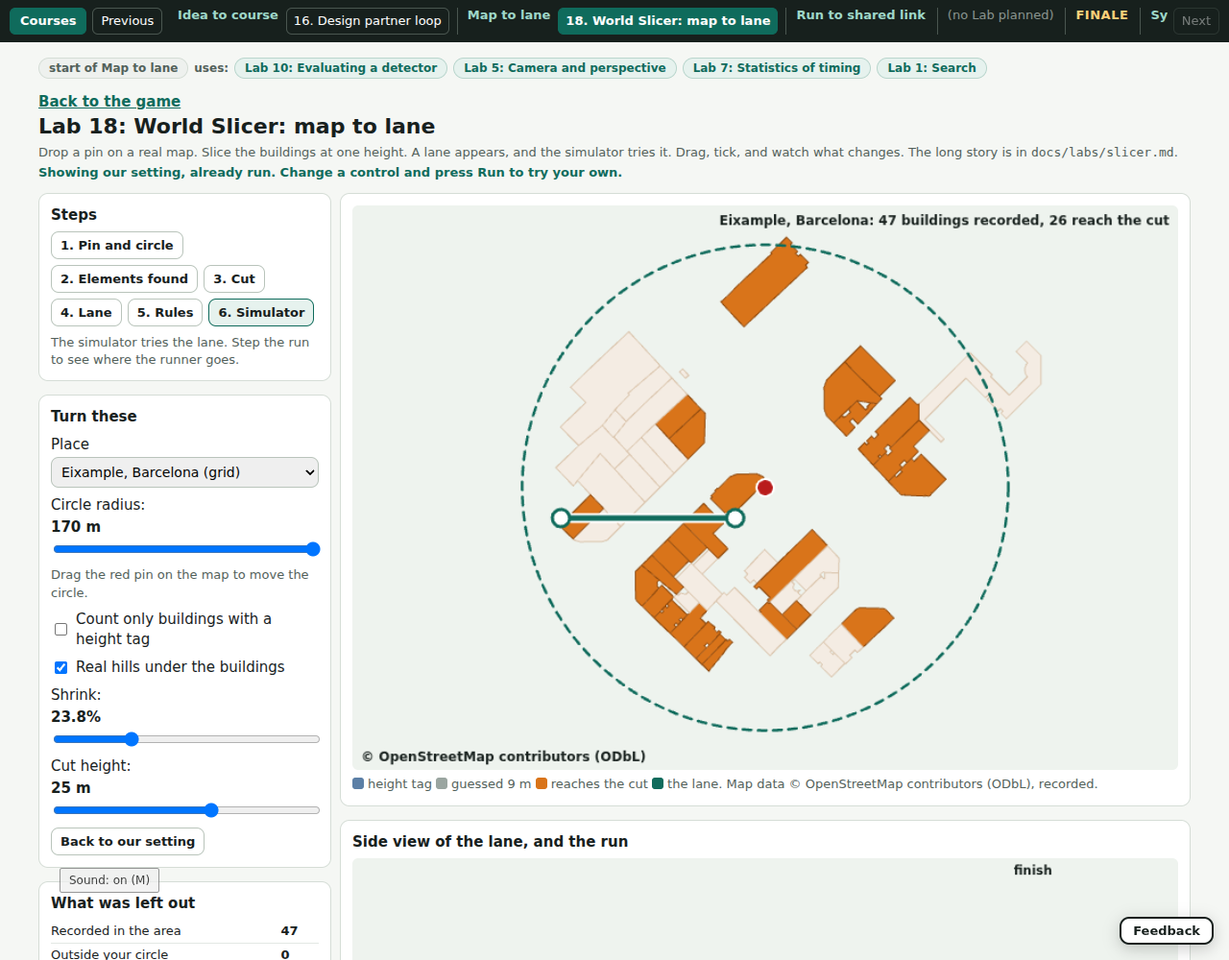
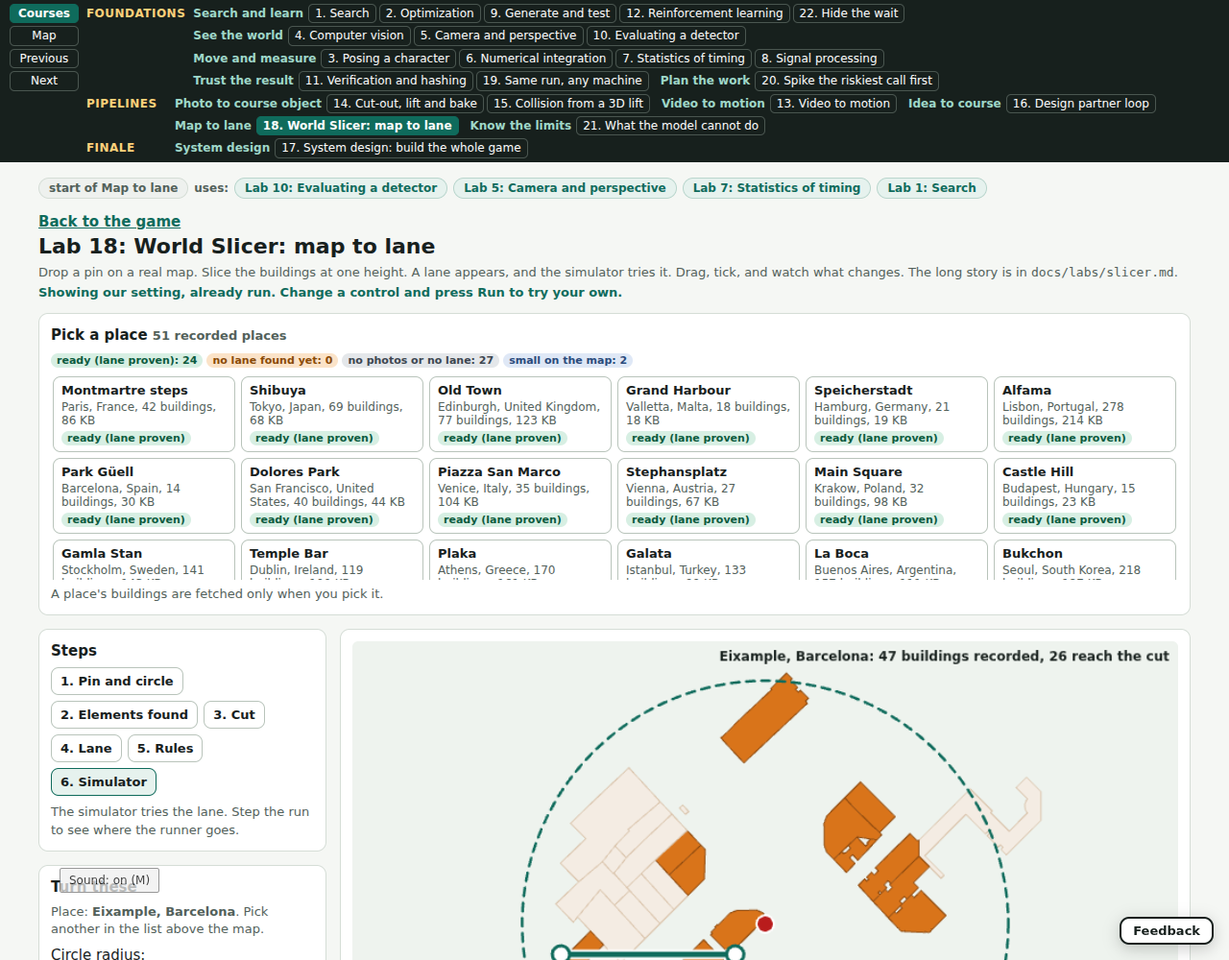
World Slicer Lab: offer every place of the index, each with the editor's completeness badge
- Place picker is a card list with badges (ready, no lane found yet, no photos or no lane, small on the map) and a legend; all counts come from index.json
- Each place's buildings are fetched only when it is picked
- The simulator search runs in a worker with a progress bar; the stored run is shown, labelled, until it answers
- Removed the hard-coded "five of 47" claim from the docs; fixed the stale 47 in the ASSETS row for slicer-defaults.json
- Tests derive counts from the index; browser check covers the picker and lazy loading

Part of CC-133

diff --git a/src/modes/lab-slicer.ts b/src/modes/lab-slicer.ts
@@ -2,10 +2,10 @@ import { mountLabsNav } from "../ui/labs-nav";
 import { labsOn } from "../ui/labs";
 import { labDefaultNote, labPopulated } from "../ui/lab-default";
 import { laneToCourse } from "../slice/slice";
-import type { DefaultsFile } from "../slice/slicer-default";
+import type { DefaultsFile, SlicerDefault } from "../slice/slicer-default";
 import {
-  CHALLENGES, DEFAULTS_URL, GAME_LIMITS, OSM_CREDIT, PLACE_URL, SLUGS, analyse, judge, looksOk, openKnobs, placeOf, reachOf, ruleRows, startKnobs, tryLane,
-  type Analysis, type Challenge, type Knobs, type Limits, type PlaceData, type Tried,
+  CHALLENGES, DEFAULTS_URL, GAME_LIMITS, INDEX_URL, LEVELS, OSM_CREDIT, PLACE_URL, analyse, countLevels, levelsOf, judge, looksOk, openKnobs, placeOf, reachOf, ruleRows, startKnobs,
+  type Analysis, type Challenge, type IndexEntry, type Knobs, type Limits, type PlaceData, type Tried,
 } from "../labs/slicer/slicer-lab-core";
 
 // Lab 18: World Slicer: map to lane. A pin on a recorded OpenStreetMap area becomes a lane the simulator proves. Every picture is the game's own Slicer code run on recorded data
@@ -53,6 +53,14 @@ export function startLabSlicer(host: HTMLElement): { backend: "canvas2d" } {
     #lab-slicer .chal{border:1px solid #d5ddd6;border-radius:8px;padding:10px;display:grid;gap:6px;align-content:start}
     #lab-slicer .chal.on{border-color:${TEAL};background:#f1f8f5}
     #lab-slicer .sw{display:inline-block;width:12px;height:12px;border-radius:3px;vertical-align:-1px;margin-right:4px}
+    #lab-slicer .pl{display:grid;grid-template-columns:repeat(auto-fill,minmax(170px,1fr));gap:6px;max-height:210px;overflow:auto;padding:2px}
+    #lab-slicer .pl button{display:grid;gap:3px;text-align:left;padding:6px 8px}
+    #lab-slicer .pl button[aria-pressed=true]{border-color:${TEAL};background:#e6f2ee}
+    #lab-slicer .pl .nm{font-weight:700}#lab-slicer .pl .ct{font-weight:400;color:#52605a;font-size:12px}
+    #lab-slicer .bdg{display:inline-block;font:700 11px system-ui;padding:1px 6px;border-radius:9px;margin-right:4px;white-space:nowrap}
+    #lab-slicer .bdg.ready{background:#d7efe3;color:#0b5a3e}#lab-slicer .bdg.nolane{background:#fbe3c8;color:#8a4a06}
+    #lab-slicer .bdg.nophotos{background:#e4e7ea;color:#3d4650}#lab-slicer .bdg.small{background:#dfe8f6;color:#2a4a7c}
+    #lab-slicer progress{width:100%;height:10px}
     #lab-slicer [hidden]{display:none !important}
   `;
   root.append(style);
@@ -61,12 +69,16 @@ export function startLabSlicer(host: HTMLElement): { backend: "canvas2d" } {
     <div><a class="back" href="/?welcome=0">Back to the game</a>
     <h1>Lab 18: World Slicer: map to lane</h1>
     <p class="small" style="margin:2px 0 0">Drop a pin on a real map. Slice the buildings at one height. A lane appears, and the simulator tries it. Drag, tick, and watch what changes. The long story is in <code>docs/labs/slicer.md</code>.</p></div>
+    <div class="card"><h2>Pick a place <span class="small" id="sl-place-n"></span></h2>
+      <p class="small" id="sl-legend" style="margin:0 0 6px"></p>
+      <div class="pl" id="sl-places" role="group" aria-label="Recorded places"></div>
+      <p class="small" style="margin:6px 0 0">A place's buildings are fetched only when you pick it.</p></div>
     <div class="grid">
       <div style="display:grid;gap:14px">
         <div class="card"><h2>Steps</h2><div class="steps" id="sl-steps"></div>
           <p class="small" id="sl-does" style="margin:8px 0 0"></p></div>
         <div class="card"><h2>Turn these</h2>
-          <label>Place<select id="sl-place"></select></label>
+          <p class="small" style="margin:0">Place: <b id="sl-place-name"></b>. Pick another in the list above the map.</p>
           <label>Circle radius: <b id="sl-r-v"></b><input id="sl-r" type="range" min="20" max="160" step="5"></label>
           <p class="small" style="margin:0">Drag the red pin on the map to move the circle.</p>
           <label class="tick"><input id="sl-real" type="checkbox"> Count only buildings with a height tag</label>
@@ -82,7 +94,8 @@ export function startLabSlicer(host: HTMLElement): { backend: "canvas2d" } {
         <div class="card"><h2>Side view of the lane, and the run</h2>
           <canvas id="sl-side" width="${SW}" height="${SH}"></canvas>
           <label>Step of the run: <b id="sl-tick-v"></b><input id="sl-tick" type="range" min="0" max="1" step="1"></label>
-          <p id="sl-verdict" style="margin:4px 0 0;font-weight:700"></p></div>
+          <p id="sl-verdict" style="margin:4px 0 0;font-weight:700"></p>
+          <progress id="sl-prog" hidden></progress><p class="small" id="sl-prog-t" style="margin:2px 0 0"></p></div>
       </div>
     </div>
     <div class="grid" style="grid-template-columns:minmax(0,1fr) minmax(0,1fr)">
@@ -186,7 +199,7 @@ export function startLabSlicer(host: HTMLElement): { backend: "canvas2d" } {
     $("sl-lg-v").textContent = `${f1(limits.gap)} m`; $("sl-lc-v").textContent = `${f1(limits.climb)} m`; $("sl-lf-v").textContent = `${f1(limits.fall)} m`;
     $("sl-look").innerHTML = `Quick look: <b class="${looksOk(a.facts, limits) ? "good" : "bad"}">${looksOk(a.facts, limits) ? "looks crossable" : "does not look crossable"}</b>. ${a.why.lines.length && !a.proved ? a.why.lines.join(" ") : ""}`;
     $("sl-does").textContent = STEPS[step - 1].does;
-        $("sl-verdict").innerHTML = busy ? "Asking the simulator..." : a.proved
+        $("sl-verdict").innerHTML = busy ? (recorded ? recordedLine() : "Asking the simulator...") : a.proved
       ? `<span class="good">Simulator: clears.</span> ${f1(a.lengthM)} m lane${tried?.clearS ? `, an ideal run takes ${tried.clearS} s` : ""}. The quick look says ${a.quick ? "yes" : "no"}: the simulator has the last word.`
       : `<span class="bad">Simulator: no run clears this lane.</span> ${a.lengthM < 8 ? "The lane is too short." : a.why.lines[0] ?? ""}`;
     const tt = $<HTMLInputElement>("sl-tick"); tt.max = String(Math.max(1, (tried?.xs.length ?? 1) - 1)); tt.value = String(Math.min(tick, Number(tt.max))); $("sl-tick-v").textContent = tried ? `${tt.value} of ${tt.max}` : "no run";
@@ -195,20 +208,35 @@ export function startLabSlicer(host: HTMLElement): { backend: "canvas2d" } {
   const redraw = () => { drawText(); drawMap(); drawSide(); };
 
   // ---- compute: a quick pass while dragging, the simulator after a pause ----
-  let busy = false;
+  let busy = false, recorded = false, worker: Worker | null = null, askId = 0, t0 = 0, progTimer = 0, index: IndexEntry[] = [];
+  const dOf = (): SlicerDefault | undefined => defaults?.places.find((x) => x.slug === place.slug);
+  /** True while the knobs are still the stored, proved setting: the recorded run is then shown at once, labelled, while the live search runs. */
+  const sameAsStored = (): boolean => { const d = dOf(); return !!d && JSON.stringify(openKnobs(place, d)) === JSON.stringify(k); };
+  const recordedLine = (): string => { const d = dOf()!; return `<span class="good">Recorded run: ${d.clear ? "clears" : "does not clear"}.</span> ${f1(d.lengthM)} m lane${d.clearS ? `, an ideal run takes ${d.clearS} s` : ""}. Proved ahead of time; the live search is running now.`; };
+  function stopProgress() { window.clearInterval(progTimer); $("sl-prog").hidden = true; $("sl-prog-t").textContent = ""; }
   function recompute(now: boolean) {
     window.clearTimeout(timer);
     token++;
-    a = analyse(place, k, { prove: false }); tried = null; tick = 0; busy = true;
+    a = analyse(place, k, { prove: false }); tried = null; tick = 0; busy = true; recorded = sameAsStored();
     redraw();
-    timer = window.setTimeout(() => {
-      timer = window.setTimeout(() => {
-        a = analyse(place, k);
-        tried = a.proved || a.lengthM >= 8 ? tryLane(a) : null;
-        if (tried) tick = tried.xs.length - 1;
-        busy = false; redraw(); labPopulated("lab-slicer");
-      }, 30);
-    }, now ? 0 : 450);
+    timer = window.setTimeout(ask, now ? 0 : 450);
+  }
+  /** The simulator's search runs in a worker, so a big place never freezes the page; a bar shows how long it has run. */
+  function ask() {
+    if (worker) { worker.terminate(); worker = null; } // a newer setting replaces a search still running
+    const id = ++askId; t0 = performance.now();
+    const w = (worker = new Worker(new URL("../labs/slicer/worker.ts", import.meta.url), { type: "module" }));
+    w.onmessage = (e: MessageEvent) => {
+      if (e.data.id !== askId) return;
+      stopProgress(); a = e.data.a as Analysis; tried = e.data.tried as Tried | null;
+      if (tried) tick = tried.xs.length - 1;
+      busy = false; recorded = false; redraw(); labPopulated("lab-slicer");
+    };
+    w.onerror = (e) => { stopProgress(); busy = false; $("sl-verdict").innerHTML = `<span class="bad">The search stopped: ${e.message}</span>`; };
+    $("sl-prog").hidden = false;
+    window.clearInterval(progTimer);
+    progTimer = window.setInterval(() => { $("sl-prog-t").textContent = `The simulator is searching: ${((performance.now() - t0) / 1000).toFixed(1)} s. Big places take longer.`; }, 200);
+    w.postMessage({ id, place, knobs: k });
   }
 
   // ---- challenges ----
@@ -228,28 +256,38 @@ export function startLabSlicer(host: HTMLElement): { backend: "canvas2d" } {
 
   // ---- events ----
   async function load(slug: string) {
+    const entry = index.find((p) => p.slug === slug);
+    $("sl-place-name").textContent = `${entry?.name ?? slug} (loading its buildings...)`;
     if (!places.has(slug)) places.set(slug, placeOf(await (await fetch(PLACE_URL(slug))).json()));
     place = places.get(slug)!;
-    const d = defaults!.places.find((x) => x.slug === slug)!;
+    const d = defaults!.places.find((x) => x.slug === slug);
+    if (!d) { $("sl-place-name").textContent = `${place.name} (no stored lane to start from)`; return; }
     k = chal && chal.slug === slug ? startKnobs(chal, place, d) : openKnobs(place, d);
     span = Math.max(80, reachOf(place) + 20);
     ($("sl-r") as HTMLInputElement).max = String(reachOf(place));
-    ($("sl-place") as HTMLSelectElement).value = slug;
+    $("sl-place-name").textContent = place.name;
+    wrap.querySelectorAll<HTMLButtonElement>("#sl-places button").forEach((b) => b.setAttribute("aria-pressed", String(b.dataset.slug === slug)));
     recompute(true);
   }
   const reset = () => { chal = null; paintChals(); void load(place.slug); };
   (async () => {
     defaults = await (await fetch(DEFAULTS_URL)).json();
-    for (const s of SLUGS) { const d = defaults!.places.find((x) => x.slug === s); void d; }
-    const names: Record<string, string> = { "alfama-lisbon": "Alfama, Lisbon (hills)", "montmartre-paris": "Montmartre, Paris", "eixample-barcelona": "Eixample, Barcelona (grid)", "zocalo-mexico-city": "Zocalo, Mexico City (few buildings)", "lakeside-garden-skatepark": "Lakeside skatepark (one building)" };
-    $("sl-place").innerHTML = SLUGS.map((s) => `<option value="${s}">${names[s]}</option>`).join("");
+    index = (await (await fetch(INDEX_URL)).json()) as IndexEntry[];
+    const c = countLevels(index), main = (p: IndexEntry) => LEVELS.findIndex((l) => l.id === levelsOf(p)[0]);
+    $("sl-place-n").textContent = `${index.length} recorded places`;
+    $("sl-legend").innerHTML = LEVELS.map((l) => `<span class="bdg ${l.id}" title="${l.tip}">${l.label}: ${c[l.id]}</span>`).join("");
+    $("sl-places").innerHTML = [...index].sort((x, y) => main(x) - main(y)).map((p) => {
+      const cut = p.name.lastIndexOf(","), nm = cut > 0 ? p.name.slice(0, cut) : p.name, city = cut > 0 ? p.name.slice(cut + 1).trim() : p.country ?? "";
+      const bd = levelsOf(p).map((l) => { const L = LEVELS.find((x) => x.id === l)!; return `<span class="bdg ${l}" title="${L.tip}">${L.label}</span>`; }).join("");
+      return `<button type="button" data-slug="${p.slug}" aria-pressed="false"><span class="nm">${nm}</span><span class="ct">${[city, p.country && p.country !== city ? p.country : ""].filter(Boolean).join(", ")}${p.buildings ? `, ${p.buildings} buildings` : ""}${p.bytes ? `, ${Math.round(p.bytes / 1000)} KB` : ""}</span><span>${bd}</span></button>`;
+    }).join("");
     $("sl-steps").innerHTML = STEPS.map((s) => `<button data-step="${s.id}" aria-pressed="false">${s.id}. ${s.name}</button>`).join("");
     paintChals();
-    await load("eixample-barcelona");
+    await load(index.some((p) => p.slug === "eixample-barcelona") ? "eixample-barcelona" : index[0].slug);
   })().catch((e) => { wrap.insertAdjacentHTML("afterbegin", `<p class="bad">Could not load the recorded places: ${String(e)}</p>`); });
 
   $("sl-steps").addEventListener("click", (e) => { const b = (e.target as HTMLElement).closest("button"); if (b) { step = Number(b.dataset.step); redraw(); } });
-  $("sl-place").addEventListener("change", () => { chal = null; paintChals(); void load(($("sl-place") as HTMLSelectElement).value); });
+  $("sl-places").addEventListener("click", (e) => { const b = (e.target as HTMLElement).closest("button"); if (b?.dataset.slug) { chal = null; paintChals(); void load(b.dataset.slug); } });
   $("sl-r").addEventListener("input", () => { k = { ...k, radiusM: Number(($("sl-r") as HTMLInputElement).value) }; recompute(false); });
   $("sl-k").addEventListener("input", () => { k = { ...k, shrink: Number(($("sl-k") as HTMLInputElement).value) }; recompute(false); });
   $("sl-cut").addEventListener("input", () => { k = { ...k, cutM: Number(($("sl-cut") as HTMLInputElement).value) }; recompute(false); });

diff --git a/tests/lab-slicer.test.ts b/tests/lab-slicer.test.ts
@@ -3,12 +3,14 @@ import { describe, expect, it } from "vitest";
 import { setRoofStart } from "../src/slice/slice";
 import { laneFacts, looksCrossable } from "../src/slice/why";
 import { replayDefault, type DefaultsFile } from "../src/slice/slicer-default";
-import { CHALLENGES, GAME_LIMITS, JUMP_GAP_M, MIN_LANE_M, SLUGS, analyse, inputOf, judge, looksOk, openKnobs, placeOf, reachOf, ruleRows, startKnobs, tryLane, type Challenge, type Knobs } from "../src/labs/slicer/slicer-lab-core";
+import { CHALLENGES, GAME_LIMITS, JUMP_GAP_M, MIN_LANE_M, LEVELS, analyse, countLevels, isReady, levelsOf, type IndexEntry, inputOf, judge, looksOk, openKnobs, placeOf, reachOf, ruleRows, startKnobs, tryLane, type Challenge, type Knobs } from "../src/labs/slicer/slicer-lab-core";
 
 // Lab 18 (map to lane): the Lab's claims, pinned to the game's own Slicer code and the recorded OpenStreetMap places. No network, no photos.
 const defaults = JSON.parse(readFileSync("public/assets/places/slicer-defaults.json", "utf8")) as DefaultsFile;
 const raw = (slug: string) => JSON.parse(readFileSync(`public/assets/places/${slug}.json`, "utf8"));
 const place = (slug: string) => placeOf(raw(slug));
+const index = JSON.parse(readFileSync("public/assets/places/index.json", "utf8")) as IndexEntry[];
+const SLUGS = index.map((p) => p.slug);
 const dflt = (slug: string) => defaults.places.find((d) => d.slug === slug)!;
 const chal = (id: string): Challenge => CHALLENGES.find((c) => c.id === id)!;
 const knobs = (slug: string, o: Partial<Knobs> = {}): Knobs => ({ ...openKnobs(place(slug), dflt(slug)), ...o });
@@ -16,13 +18,39 @@ setRoofStart(true);
 
 describe("Lab 18: the recorded places", () => {
   it("are in the picker's list, are recorded OpenStreetMap buildings, and have a stored proved default", () => {
-    expect(SLUGS).toHaveLength(5);
+    expect(SLUGS.length).toBeGreaterThan(0);
+    expect(new Set(SLUGS).size).toBe(SLUGS.length);
     for (const s of SLUGS) {
       const r = raw(s);
       expect(r.answer.elements.length).toBeGreaterThan(0);
-      expect(r.answer.elements.every((e: { tags?: Record<string, string> }) => !!e.tags?.building)).toBe(true);
-      expect(dflt(s).clear).toBe(true);
+      expect(r.answer.elements.some((e: { tags?: Record<string, string> }) => !!e.tags?.building)).toBe(true);
+      expect(dflt(s), s).toBeTruthy();
     }
+  });
+  it("every place of the index has a badge, and the counts are computed from the index", () => {
+    const c = countLevels(index);
+    expect(c.ready + c.nolane + c.nophotos).toBe(index.length); // one main badge each
+    expect(c.ready).toBe(index.filter((p) => p.listed !== false && (p.kind !== "parkour" || p.path === true)).length);
+    expect(c.small).toBe(index.filter((p) => p.kind === "parkour" && p.visible === false).length);
+    for (const p of index) expect(levelsOf(p).includes("ready")).toBe(isReady(p));
+    expect(LEVELS.map((l) => l.id)).toEqual(["ready", "nolane", "nophotos", "small"]);
+  });
+  it("every badge level that the index has is on at least one card, and the legend names all four", () => {
+    const c = countLevels(index);
+    for (const l of LEVELS) expect(c[l.id] > 0 || ["nolane"].includes(l.id), l.id).toBe(true); // 'no lane found yet' is empty while every park has its lane; the legend still shows it with 0
+    const src = readFileSync("src/modes/lab-slicer.ts", "utf8");
+    expect(src).toContain("LEVELS.map");
+    expect(src).toContain("countLevels(");
+  });
+  it("every place opens: its buildings are found and its stored lane reads", () => {
+    for (const s of SLUGS) { const pl = place(s), a = analyse(pl, openKnobs(pl, dflt(s)), { prove: false }); expect(a.counts.found, s).toBeGreaterThan(0); }
+  }, 120000);
+  it("loads each place's file only when it is picked, never all at once", () => {
+    const src = readFileSync("src/modes/lab-slicer.ts", "utf8");
+    expect(src.match(/PLACE_URL\(/g)).toHaveLength(1);
+    expect(src).toMatch(/async function load\(slug: string\)[\s\S]{0,500}PLACE_URL\(slug\)/);
+    expect(src).not.toMatch(/for \([^)]*\) .*PLACE_URL/);
+    expect(src).toContain("new Worker(");
   });
   it("the Alfama facts quoted on the page: 278 buildings drawn, 64 with a height tag", () => {
     const a = analyse(place("alfama-lisbon"), knobs("alfama-lisbon"), { prove: false });
@@ -130,7 +158,7 @@ describe("Lab 18: the four design challenges each start failing and each has a w
     expect(judge(c, analyse(place(c.slug), { ...start(c), realOnly: false })).pass).toBe(true);
   });
   it("every challenge has a reveal and a place that is in the list", () => {
-    for (const c of CHALLENGES) { expect(c.reveal.length).toBeGreaterThan(40); expect(SLUGS).toContain(c.slug); }
+    for (const c of CHALLENGES) { expect(c.reveal.length).toBeGreaterThan(40); expect(SLUGS, c.slug).toContain(c.slug); }
   });
 });
 

diff --git a/src/labs/slicer/slicer-lab-core.ts b/src/labs/slicer/slicer-lab-core.ts
@@ -15,7 +15,26 @@ export { JUMP_GAP_M, MIN_GAP_M, CLIMBABLE, LANE_DROP };
 export const MIN_LANE_M = 8; // a lane shorter than this is too short to run along (src/slice/why.ts)
 export const PLACE_URL = (slug: string): string => `/assets/places/${slug}.json`;
 export const DEFAULTS_URL = '/assets/places/slicer-defaults.json';
-export const SLUGS = ['alfama-lisbon', 'montmartre-paris', 'eixample-barcelona', 'zocalo-mexico-city', 'lakeside-garden-skatepark'] as const;
+export const INDEX_URL = '/assets/places/index.json';
+/** One line of public/assets/places/index.json (only the parts the Lab reads). Every place the Lab offers comes from this list. */
+export interface IndexEntry { slug: string; name: string; country?: string; kind?: string; listed?: boolean; path?: boolean; visible?: boolean; hill_m?: number; buildings?: number; bytes?: number }
+export type Level = 'ready' | 'nolane' | 'nophotos' | 'small';
+/** The same completeness words as the world editor's ready-places gallery (src/modes/map-place.ts), in the order they are shown. */
+export const LEVELS: readonly { id: Level; label: string; tip: string }[] = [
+  { id: 'ready', label: 'ready (lane proven)', tip: 'Listed in the editor and has a lane the simulator cleared.' },
+  { id: 'nolane', label: 'no lane found yet', tip: 'A park whose search has not found a lane yet.' },
+  { id: 'nophotos', label: 'no photos or no lane', tip: 'Not listed in the editor yet (it still has a proved lane stored, but no photos).' },
+  { id: 'small', label: 'small on the map', tip: 'The mapped shape is under 1500 square metres, so it is a small patch at the editor zoom.' },
+];
+/** The same test the editor uses for its green "ready" badge. */
+export const isReady = (p: IndexEntry): boolean => p.listed !== false && (p.kind !== 'parkour' || p.path === true);
+/** The badges of one place: one of ready / no lane found yet / no photos or no lane, and "small on the map" on top when it applies. */
+export const levelsOf = (p: IndexEntry): Level[] => [isReady(p) ? 'ready' : p.kind === 'parkour' ? 'nolane' : 'nophotos', ...(p.kind === 'parkour' && p.visible === false ? ['small' as const] : [])];
+export const countLevels = (index: readonly IndexEntry[]): Record<Level, number> => {
+  const c: Record<Level, number> = { ready: 0, nolane: 0, nophotos: 0, small: 0 };
+  for (const p of index) for (const l of levelsOf(p)) c[l]++;
+  return c;
+};
 export const OSM_CREDIT = '© OpenStreetMap contributors (ODbL)';
 
 export interface PlaceData { slug: string; name: string; lat: number; lon: number; radius: number; blurb: string; answer: OverpassAnswer; ground: Ground | null }
@@ -120,7 +139,7 @@ export const CHALLENGES: readonly Challenge[] = [
     task: 'Only one building is inside this circle, so the lane has nothing to stand on. Widen the radius until a lane clears.',
     reveal: 'A lane needs buildings under the whole line. We read a circle that holds every building recorded around the pin. A wider circle costs more to search, so the Slicer proves the lane ahead of time (docs/lessons.md, CC-90).' },
   { id: 'guessed', title: 'Only the buildings we are sure of', slug: 'alfama-lisbon', kind: 'clear', start: { realOnly: true },
-    task: 'Only 64 of 278 buildings here carry a height tag. With only those counted, there is no lane. Find a setting that clears.',
+    task: 'Many buildings here have no height tag. With only the tagged ones counted, there is no lane. Find a setting that clears.',
     reveal: 'We count every building and guess 9 m when the tag is missing. A guess is imperfect, but a place with only the sure ones has no lane. The lane is a game lane, not a survey.' },
 ];
 export interface Verdict { pass: boolean; text: string }

diff --git a/src/labs/slicer/worker.ts b/src/labs/slicer/worker.ts
@@ -1,0 +1,9 @@
+import { analyse, tryLane, type Knobs, type PlaceData } from "./slicer-lab-core";
+
+// Runs the simulator's search for one lane off the page's thread (a big place can take about ten seconds), then plays the run back for the picture.
+const ctx = self as unknown as { onmessage: ((e: { data: { id: number; place: PlaceData; knobs: Knobs } }) => void) | null; postMessage(m: unknown): void };
+ctx.onmessage = (e) => {
+  const t0 = Date.now(), a = analyse(e.data.place, e.data.knobs);
+  const tried = a.proved || a.lengthM >= 8 ? tryLane(a) : null;
+  ctx.postMessage({ id: e.data.id, a, tried, ms: Date.now() - t0 });
+};

diff --git a/docs/ASSETS.md b/docs/ASSETS.md
@@ -504,7 +504,7 @@
 | File | What | Made from | Licence | Made with |
 |---|---|---|---|---|
 | `public/assets/photos-live/<place>.json` (19 listed places plus eixample-barcelona: shibuya-tokyo, montmartre-paris, piazza-san-marco-venice, valletta-harbour-malta, edinburgh-old-town, dolores-park-san-francisco, caminito-buenos-aires, bukchon-seoul, parc-guell-barcelona, alfama-lisbon, stephansplatz-vienna, galata-istanbul, plaka-athens, bryggen-bergen, gamla-stan-stockholm, speicherstadt-hamburg, temple-bar-dublin, main-square-krakow, castle-hill-budapest) | the allow-list of street photos with no close-up or large person (small far figures pass), one list per place: photo id, creator, position and camera direction only (no picture bytes, no picture addresses) | Mapillary images near the place's lane, found through the Graph API v4 on 2026-10-29 and 2026-11-01, kept unless the person detector found a person taller than 0.2 of the picture height; Mapillary's own blur is the base standard (owner, 2026-11-01); box fetched in 50 m tiles (`scripts/photos_pool.py`) | the pictures stay on Mapillary's servers and are shown by address with the creator's name, "Mapillary" and the licence CC BY-SA 4.0 on screen; the list itself is data we made | `scripts/photos_people.py` (torchvision Faster R-CNN ResNet-50 FPN, COCO weights: code BSD-3-Clause, labels CC BY 4.0) |
-| `public/assets/places/slicer-defaults.json` | for each of the 47 ready places, the shrink, cut height, line, lane length, clear time and check version of the line the World Slicer opens on (8 KB) | `scripts/slicer-defaults.ts` replays the real simulator on the line and height; 46 clear, Montmartre has no clean line and stores its closest try | ours | `npx tsx scripts/slicer-defaults.ts` (CC-90); `tests/slicer-default.test.ts` replays a sample |
+| `public/assets/places/slicer-defaults.json` | for each place in `index.json` (one entry each, the count is the index's), the shrink, cut height, line, lane length, clear time and check version of the line the World Slicer opens on (8 KB) | `scripts/slicer-defaults.ts` replays the real simulator on the line and height; each entry says whether its line clears (`clear`) | ours | `npx tsx scripts/slicer-defaults.ts` (CC-90); `tests/slicer-default.test.ts` replays a sample |
 | `public/assets/photos-live/index.json` | the places that have street photos, with a count (under 1 KB) | made from the allow-lists in the same folder | ours | one-line node script (CC-90); `tests/street-photos.test.ts` keeps it true |
 | `data/eval/cc-90-photos/live/<place>-kept-sheet.jpg` | up to eight kept photos at 256 px, to check by eye that no close-up person got through (evidence only; not used by the game) | the same Mapillary images | CC BY-SA 4.0 (Mapillary), credit to the creators; faces and plates blurred by Mapillary | `scripts/photos_people.py` |
 | `data/eval/cc-120-safety-real/safe-controls-sheet.jpg` | contact sheet of 10 plainly safe control pictures at 170 px (evidence for CC-120; not used by the game) | our own park photos and app screens from `public/assets/`, 2026-10-31 | ours | `scripts/cc120-safety-synthetic.py` |

diff --git a/docs/labs/slicer.md b/docs/labs/slicer.md
@@ -14,12 +14,15 @@
 - Open it at `?mode=lab-slicer&labs=1`.
 
 ## What runs
-- The game's own Slicer code, on recorded OpenStreetMap data of five ready places (`public/assets/places/*.json`):
+- The game's own Slicer code, on recorded OpenStreetMap data of every place in `public/assets/places/index.json` (`public/assets/places/<place>.json`, fetched only when a place is picked):
   - `stateAt`, `customOf` and `replayDefault` from `src/slice/slicer-default.ts` (the buildings, the roofs, the player's line).
   - `customLane` and `worldOf` from `src/slice/slicer-core.ts` (the lane read from the picked buildings, and the simulator's verdict).
   - `laneProfile` from `src/slice/world.ts`, `laneFacts`, `looksCrossable` and `whyNot` from `src/slice/why.ts`.
   - `laneToCourse` from `src/slice/slice.ts`, then `searchIdealRun` and `playPlan` from `src/sim/ideal.ts` for the run that is drawn.
 - Lab code only: `src/labs/slicer/slicer-lab-core.ts` (which buildings the circle and the tag switch leave out, the what-if limits, the challenges).
+- The place picker is a list of cards, each with the editor's completeness badge: ready (lane proven), no lane found yet, no photos or no lane, small on the map.
+  - A legend counts the places of each level, computed from the index.
+  - The test for the green badge is the editor's own (`src/modes/map-place.ts`).
 - Everything runs in the page.
   - Nothing is fetched from the internet, no street photo is shown or stored, and no paid call is made.
 
@@ -79,7 +82,8 @@
 - The data is recorded buildings only; paths, steps, rails and benches are not in the recorded files, so the tags that count are the height tag and nothing else.
 - The pin moves the circle; the recorded area, the hills grid and the stored defaults stay centred on the first pin.
 - The what-if limits change only the quick look; the simulator's limits are the game's.
-- The Lab shows five places out of 47, and the quick page check runs the search in the page, which takes up to a few seconds.
+- The Lab offers every place of the index; the counts on the page are computed from it, so they change when the index does.
+- The search runs in a worker with a bar; a big place takes about ten seconds, and until it answers the page shows the stored run, labelled as recorded.
 - The "Photos at the lane" step is a note, not a worked example.
 - The challenge answers are found with the real search, but other settings may pass too.
 

diff --git a/docs/labs/README.md b/docs/labs/README.md
@@ -35,7 +35,7 @@
 ### Map to lane
 | # | Stage | Lab | Question | URL | Tests | Biggest limit |
 |---|---|---|---|---|---|---|
-| 18 | Map to lane | [World Slicer: map to lane](slicer.md) | How does a pin on a real map become a lane the simulator can prove? | `?mode=lab-slicer&labs=1` | `tests/lab-slicer.test.ts` (23) | Buildings only (no trees or fences), five of 47 places, and the what-if limits change only the quick look |
+| 18 | Map to lane | [World Slicer: map to lane](slicer.md) | How does a pin on a real map become a lane the simulator can prove? | `?mode=lab-slicer&labs=1` | `tests/lab-slicer.test.ts` (23) | Buildings only (no trees or fences), and the what-if limits change only the quick look |
 
 ### Know the limits
 | # | Stage | Lab | Question | URL | Tests | Biggest limit |
